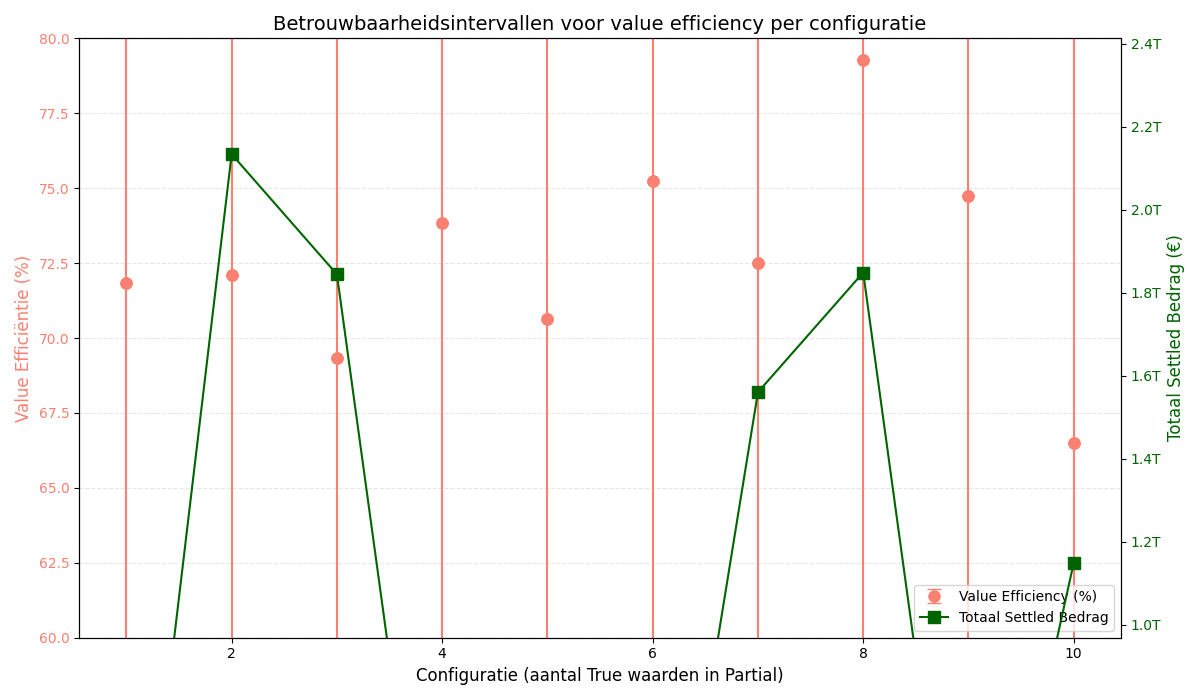
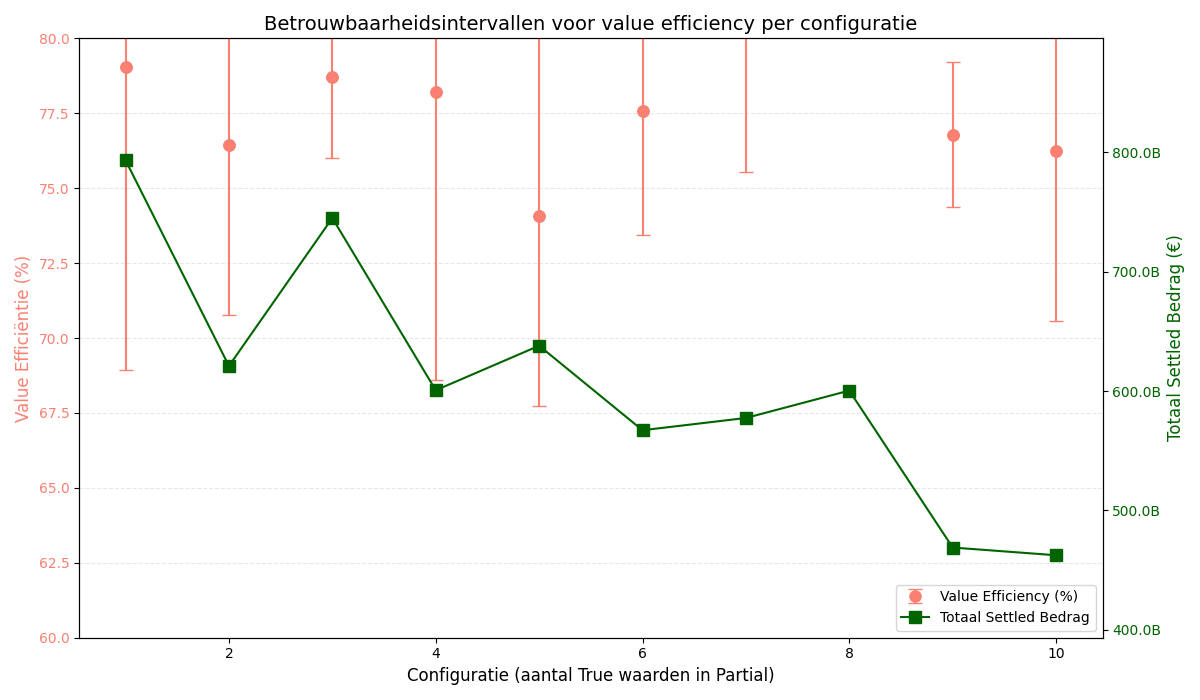
small bugfixes yeah

diff --git a/confint_vis.py b/confint_vis.py
@@ -185,7 +185,7 @@ def plot_value_efficiency(value_data, settled_amounts, title, color, filename):
     # Primary axis: Efficiency percentage
     ax1.set_xlabel("Configuratie (aantal True waarden in Partial)", fontsize=12)
     ax1.set_ylabel("Value Efficiëntie (%)", fontsize=12, color=color)
-    ax1.set_ylim(60, 80)  # Adjusted to focus on the relevant range
+    ax1.set_ylim(60, 100)  # Adjusted to focus on the relevant range
 
     # Plot means with error bars
     ax1.errorbar(configs, means, yerr=[lower_errors, upper_errors], fmt='o', color=color,
@@ -350,7 +350,7 @@ def plot_combined_with_settled_count(instruction_data, value_data, settled_count
     ax2.errorbar(configs, means_value, yerr=[lower_errors_value, upper_errors_value],
                  fmt='o', color='salmon', capsize=5, label='Value Efficiency', markersize=8)
     ax2.plot(configs, means_value, 'o', color='salmon', markersize=8)
-    ax2.set_ylim(60, 80)  # Adjusted to focus on the relevant range
+    ax2.set_ylim(60, 100)  # Adjusted to focus on the relevant range
     ax2.tick_params(axis='y', labelcolor='salmon')
 
     ax2b = ax2.twinx()

diff --git a/DeliveryInstructionAgent.py b/DeliveryInstructionAgent.py
@@ -79,7 +79,7 @@ class DeliveryInstructionAgent(InstructionAgent.InstructionAgent):
         if receiver.cashAccount.getAccountType() != "Cash":
             available_cash = 0
         else:
-            available_cash = receiver.cashAccount.getBalance()
+            available_cash = receiver.cashAccount.getBalance() + receiver.cashAccount.getCreditLimit() - receiver.cashAccount.getUsedCredit()
 
         #takes the minimum of available securities of deliverer and available cash of seller and not more than the amount
         available_to_settle = min(self.amount, available_cash, available_securities)
@@ -251,7 +251,7 @@ class DeliveryInstructionAgent(InstructionAgent.InstructionAgent):
         )
         return transaction
 
-    def cancel_timout(self):
+    def cancel_timeout(self):
         if self.status == "Exists" or self.status == "Pending" or self.status == "Validated":
             self.status = "Cancelled due to timeout"
             self.model.agents.remove(self)

diff --git a/ReceiptInstructionAgent.py b/ReceiptInstructionAgent.py
@@ -80,7 +80,7 @@ class ReceiptInstructionAgent(InstructionAgent.InstructionAgent):
         if self.cashAccount.getAccountType() != "Cash":
             available_cash = 0
         else:
-            available_cash = self.cashAccount.getBalance()
+            available_cash = self.cashAccount.getBalance() + self.cashAccount.getCreditLimit() - self.cashAccount.getUsedCredit()
 
         deliverer = self.linkedTransaction.deliverer
         if deliverer.securitiesAccount.getAccountType() != self.securityType:
@@ -270,7 +270,7 @@ class ReceiptInstructionAgent(InstructionAgent.InstructionAgent):
         )
         return transaction
 
-    def cancel_timout(self):
+    def cancel_timeout(self):
         if self.status == "Exists" or self.status == "Pending" or self.status == "Validated":
             self.status = "Cancelled due to timeout"
             self.model.agents.remove(self)

diff --git a/TransactionAgent.py b/TransactionAgent.py
@@ -236,9 +236,9 @@ class TransactionAgent(Agent):
             return
 
         if self.deliverer.is_instruction_time_out():
-            self.deliverer.cancel_timout()
+            self.deliverer.cancel_timeout()
         elif self.receiver.is_instruction_time_out():
-            self.receiver.cancel_timout()
+            self.receiver.cancel_timeout()
         elif self.status not in ["Cancelled due to timeout","Cancelled due to partial settlement", "Settled late", "Settled on time", "Cancelled due to error"]:
             if self.model.trading_start <= timedelta(hours=time_of_day.hour, minutes=time_of_day.minute) <= self.model.trading_end:
                 self.settle()

diff --git a/InstitutionAgent.py b/InstitutionAgent.py
@@ -43,7 +43,7 @@ class InstitutionAgent(Agent):
         if self.allowPartial:
             print("Institution Already opted in, cannot opt in again")
         else:
-            self.allow_partial = True
+            self.allowPartial = True
             print("Institution opted in of partial settlements")
             self.model.log_event(
                 event_type="institution_opt_in_partial",

diff --git a/Account.py b/Account.py
@@ -133,7 +133,7 @@ class Account:
                 #self.model.log_event(f"Account {self.accountID} deducted {amount} securities of type {self.accountType}. New amount: {self.balance}", self.accountID, is_transaction=False)
                 return amount
             else:
-
+                #should never happen
                 return 0
 
         else:

diff --git a/batchrunner.py b/batchrunner.py
@@ -10,7 +10,7 @@ def batch_runner():
         os.makedirs(log_folder)
 
     num_institutions = 10  # Aantal instituten in de simulatie
-    runs_per_config = 2  # Aantal simulaties per configuratie
+    runs_per_config = 5  # Aantal simulaties per configuratie
 
     efficiencies = []
 
